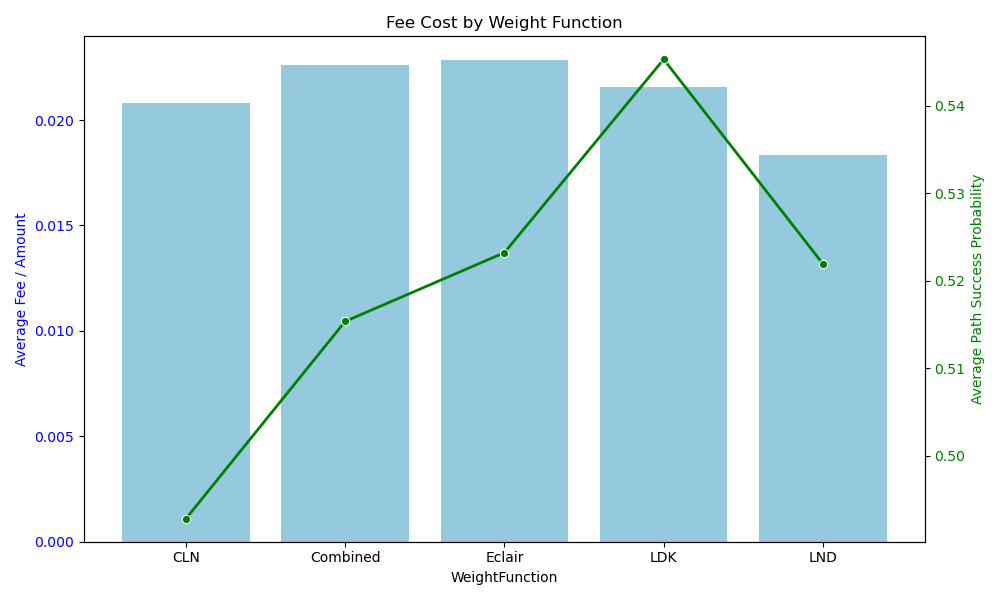
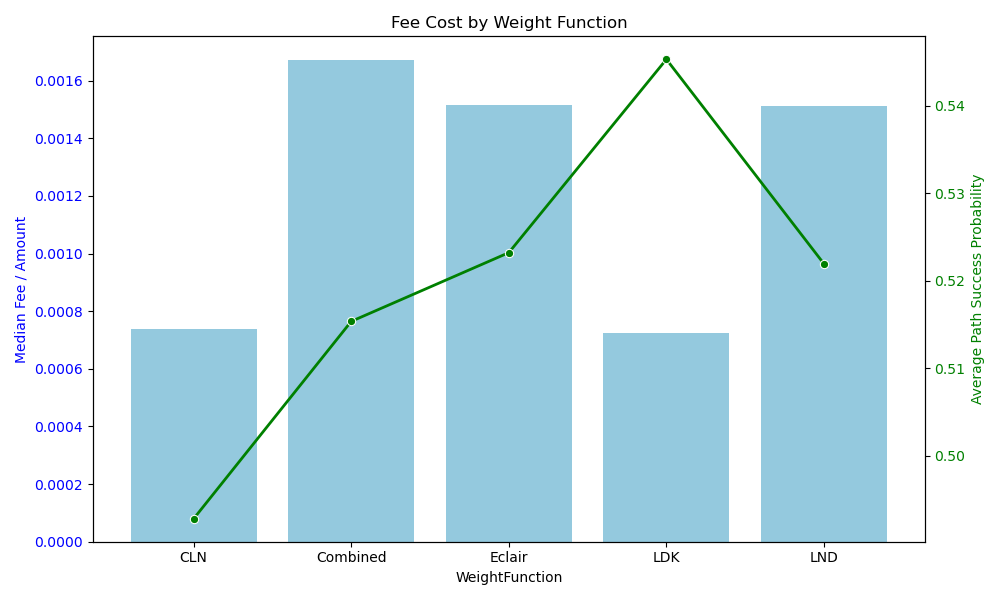
updated bar chart to use median values

diff --git a/visualization.py b/visualization.py
@@ -13,15 +13,16 @@ success_df.loc[:, "FeePerSat"] = success_df["TotalFee"] / success_df["Amount"]
 
 summary = success_df.groupby("WeightFunction").agg({
     "TotalFee": "mean",
-    "FeePerSat": "mean",
+    "FeePerSat": "median",  # Use median for FeePerSat
     "PathPe": "mean",
     "Success": "count"
 }).rename(columns={
     "TotalFee": "AvgFee",
-    "FeePerSat": "AvgFeePerSat",
+    "FeePerSat": "MedianFeePerSat",
     "PathPe": "AvgPathPe",
     "Success": "NumSuccesses"
 })
+
 
 # --- 1. Success Rate Bar Plot ---
 plt.figure(figsize=(8, 5))
@@ -59,8 +60,8 @@ summary.to_csv("summary_metrics_table.csv", index=False)
 # --- 4. Fee and Path Success Plot (Fee Only) ---
 fig, ax1 = plt.subplots(figsize=(10, 6))
 
-sns.barplot(data=summary, x="WeightFunction", y="AvgFeePerSat", ax=ax1, color="skyblue")
-ax1.set_ylabel("Average Fee / Amount", color="blue")
+sns.barplot(data=summary, x="WeightFunction", y="MedianFeePerSat", ax=ax1, color="skyblue")
+ax1.set_ylabel("Median Fee / Amount", color="blue")
 ax1.tick_params(axis='y', labelcolor="blue")
 ax2 = ax1.twinx()
 line = sns.lineplot(data=summary, x="WeightFunction", y="AvgPathPe", ax=ax2, color="green", marker="o", linewidth=2)
